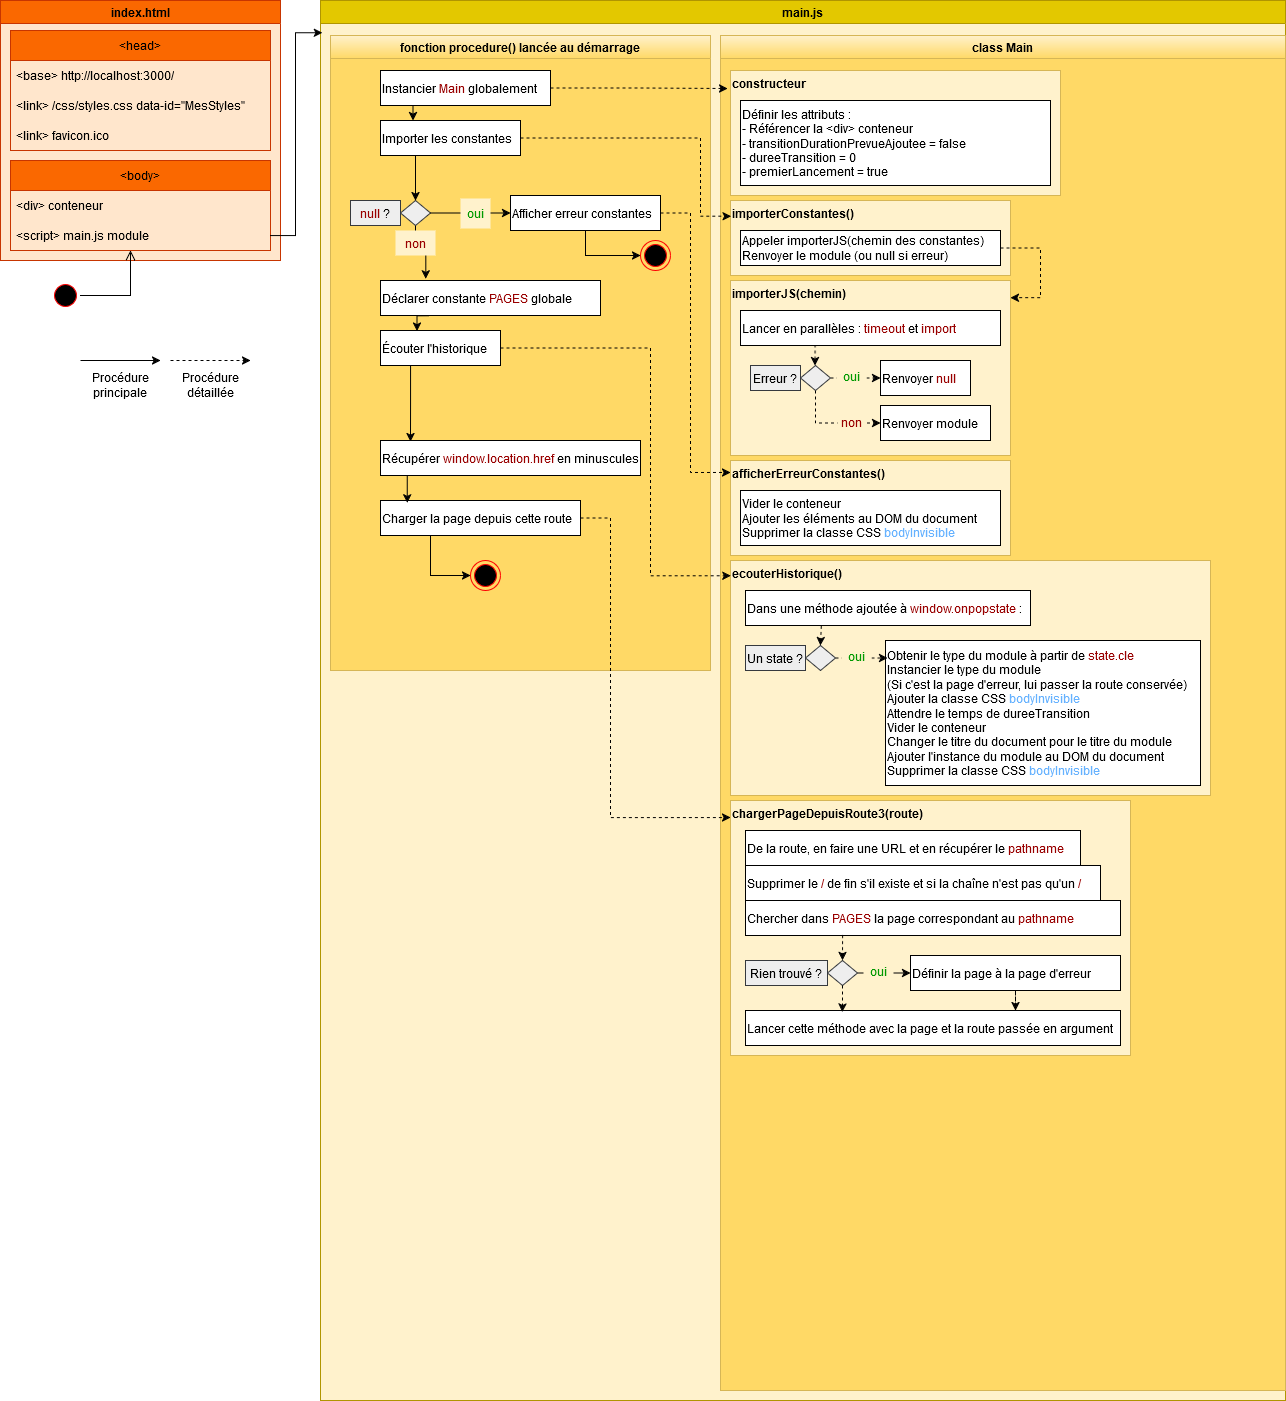
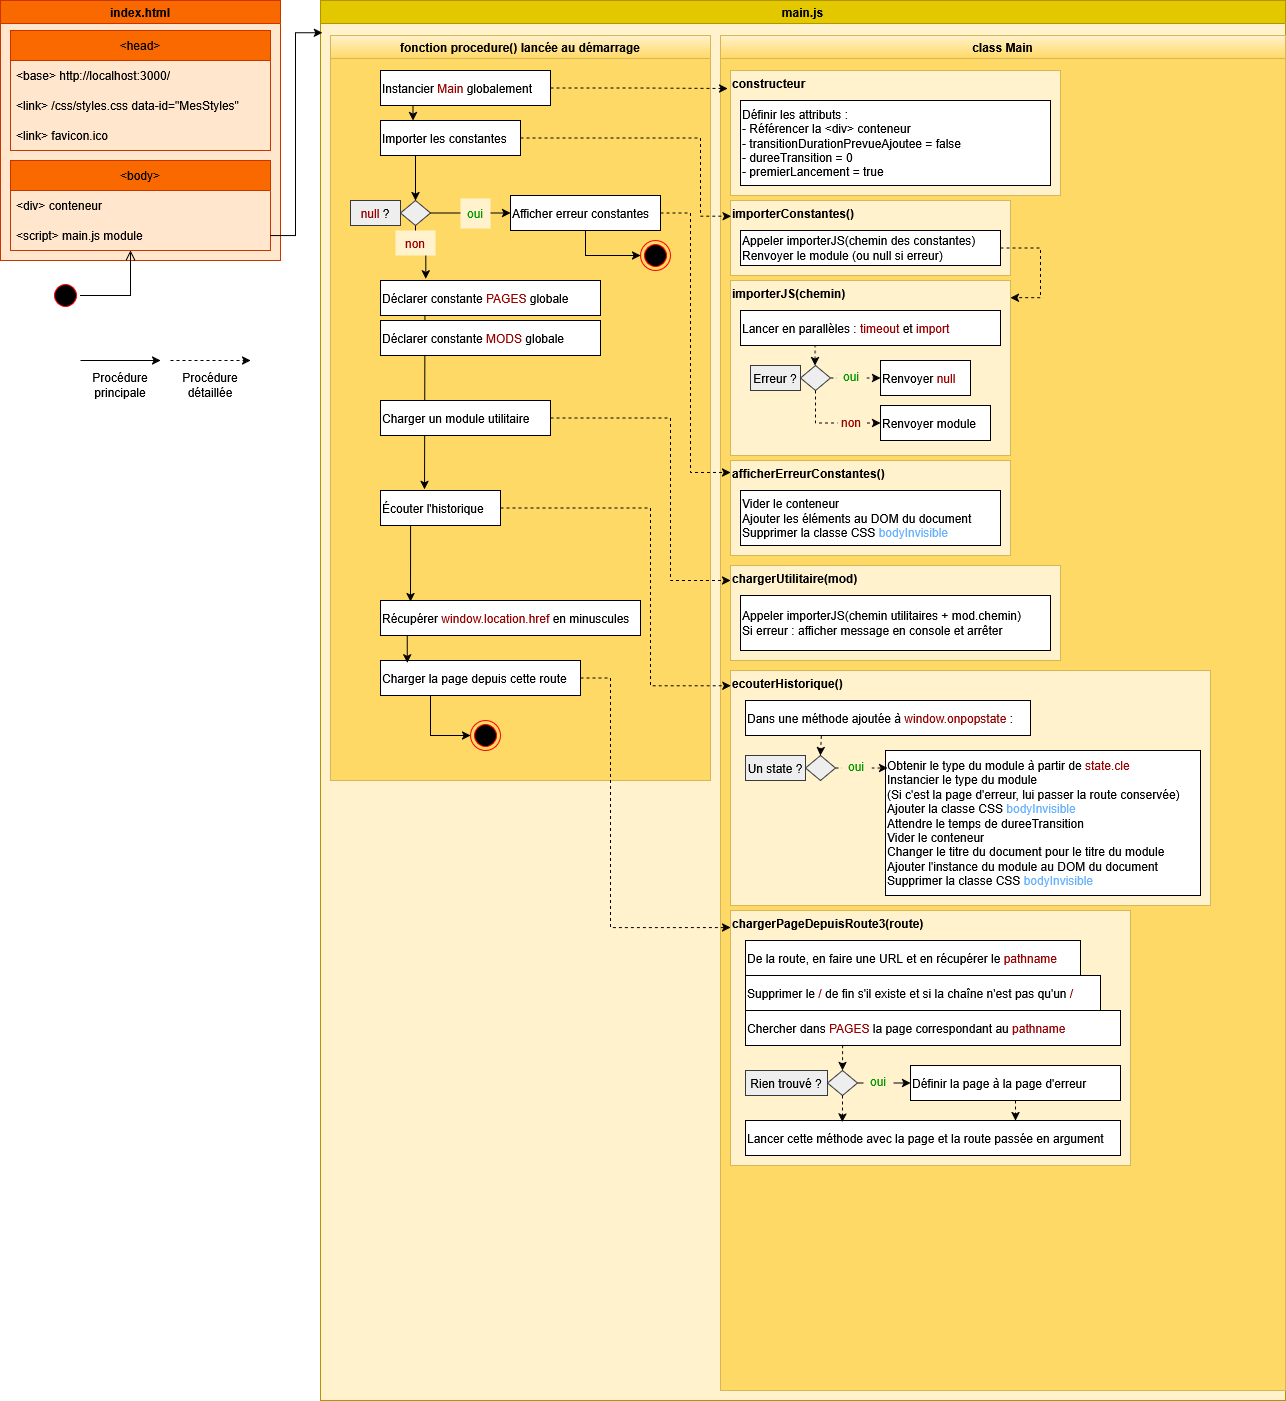
Modules utilitaires

diff --git a/www/js/main.js b/www/js/main.js
@@ -14,6 +14,8 @@ class Main
 		this.cheminFichiersPages = '/js/pages';
 		this.cheminConstantes = '/js/constantes.js';
 		
+		this.cheminFichiersUtilitaires = '/js/utilitaires';
+		
 		this.tracer('Instance générée');
 	}
 	
@@ -90,6 +92,23 @@ class Main
 	{
 		const module = await this.importerJS(this.cheminConstantes);
 		return module;
+	}
+	
+	chargerUtilitaire = async (reference) =>
+	{
+		const module = await main.importerJS(main.cheminFichiersUtilitaires + reference.chemin);
+		
+		if(!module) 
+		{
+			this.tracer(`%cchargerUtilitaire() : Echec du chargement d'utilitaire : `, 'color:DarkGreen', reference.chemin);
+			return;
+		}
+		
+		const moduleExistant = customElements.get(reference.nom);
+		if(!moduleExistant)
+		{
+			customElements.define(reference.nom, module.default);
+		}
 	}
 	
 	chargerPage3 = async (page, routeDemandee) =>
@@ -332,6 +351,11 @@ let procedure = async () =>
 		return;
 	}
 	window.PAGES = constantes.PAGES; // objet global aussi
+	window.MODS = constantes.MODS; // idem
+	
+	// Chargeons ce module utilitaire très important.
+	await main.chargerUtilitaire(MODS.truc);
+	// Il n'est pas utilisé tout de suite... Suspense !
 	
 	main.ecouterHistorique();
 	

diff --git a/www/js/utilitaires/truc.js b/www/js/utilitaires/truc.js
@@ -1,0 +1,46 @@
+class Truc extends HTMLElement
+{
+	constructor()
+	{
+		super(); // Toujours appeler le constructeur parent
+		
+		this.creerElement();
+	}
+	
+	creerElement = () =>
+	{
+		// Création de la racine du shadow DOM
+		// 'open' : composant modifiable après ajout
+		// 'closed' : composant non modifiable 
+		const shadow = this.attachShadow({mode: 'closed'});
+		
+		const template = document.createElement('template');
+		template.innerHTML = `
+		<link rel="stylesheet" href="/css/truc.css">
+		<div class="truc">😎</div>
+		`;
+		shadow.appendChild(template.content.cloneNode(true));
+	}
+	
+	connectedCallback()
+	{
+		console.log(`[${this.constructor.name}] Elément connecté au DOM du document.`);
+	}
+	
+	disconnectedCallback()
+	{
+		console.log(`[${this.constructor.name}] Elément déconnecté du DOM du document.`);
+	}
+	
+	adoptedCallback()
+	{
+		console.log(`[${this.constructor.name}] Elément déplacé vers un document.`);
+	}
+	
+	attributeChangedCallback()
+	{
+		console.log(`[${this.constructor.name}] Un attribut a été ajouté, supprimé ou modifié.`);
+	}
+}
+
+export default Truc;

diff --git a/www/js/pages/rubrique.js b/www/js/pages/rubrique.js
@@ -139,9 +139,13 @@ class Rubrique extends HTMLElement
 		// Noter qu'on peut faire la même chose avec le document HTML lui-même, en particulier si on n'utilise pas de shadowDOM :
 		// document.adoptedStyleSheets = [...document.adoptedStyleSheets, newSheet];
 		
+		// Et on veut un truc !
+		const truc = document.createElement(MODS.truc.nom);
+		
 		// Ajouter les éléments au Shadow DOM
 		shadow.appendChild(h1);
-		shadow.appendChild(bouton);		
+		shadow.appendChild(bouton);
+		shadow.appendChild(truc);
 	}
 	
 	connectedCallback()

diff --git a/serveur/index.js b/serveur/index.js
@@ -4,7 +4,7 @@ const path = require('path');
 const url = require('url');
 const process = require('process');
 
-// Ajouter mes variagles d'environnement à celles éventuellement déjà déclarées.
+// Ajouter mes variables d'environnement à celles éventuellement déjà déclarées.
 // En effet, l'hébergeur peut utiliser process.env pour stocker des infos du serveur.
 const env = require('./env');
 env.chargerENVLocal();

diff --git a/www/js/pages/rubrique/sousRubrique.js b/www/js/pages/rubrique/sousRubrique.js
@@ -62,10 +62,13 @@ class SousRubrique extends HTMLElement
 				<li><a href="/ressources/exemple.pdf" target="_blank" title="Consulter le fichier">PDF</a></li>
 			</ul>
 		</div>
+		
 		<script>
 			console.log('Le script dans un template ne s\'exécute pas.');
 			alert('toto');
 		</script>
+		
+		<mod-truc></mod-truc>
 		`;
 		shadow.appendChild(template.content.cloneNode(true));
 		

diff --git a/www/css/truc.css b/www/css/truc.css
@@ -1,0 +1,10 @@
+.truc
+{
+	background-color: rgb(255,255,255, 0.5);
+	position: fixed;
+	transform: rotate(45deg);
+	padding: 2rem 10rem;
+	top:-1rem;
+	right:-9rem;
+	font-size: 2rem;
+}

diff --git a/www/js/constantes.js b/www/js/constantes.js
@@ -41,3 +41,12 @@ export const PAGES =
 		route: '/analyse-url',
 	},
 };
+
+export const MODS = 
+{
+	truc:
+	{
+		nom: 'mod-truc',
+		chemin: '/truc.js',
+	},
+};

diff --git a/README.md b/README.md
@@ -414,6 +414,39 @@ La page d'erreur est particulière : son constructeur ne fait qu'appeler le cons
 
 Pourquoi cette différence ? C'est le moyen le plus simple pour passer au composant de la page d'erreur **la route qui a levé une erreur**. 
 
+## Constantes UTILS
+
+Sur le même modèle que `PAGES`, le fichier des constantes contient une entrée `MODS` référençant des modules utilitaires qui sont destinés à être ajoutés au *shadow DOM* des modules de page. Ces modules doivent tous avoir un `export default` et hériter de `HTMLElement`.
+
+```JS
+export const MODS = 
+{
+	truc:
+	{
+		nom: 'mod-truc',
+		chemin: '/truc.js',
+	},
+};
+```
+
+Exemple de chargement :
+
+```JS
+await main.chargerUtilitaire(MODS.truc);
+```
+
+Les deux syntaxes HTML ou JS Element sont possibles.
+
+```HTML
+<mod-truc></mod-truc>
+```
+
+```JS
+const shadow = this.attachShadow({mode: 'closed'}); // ou open
+const truc = document.createElement(MODS.truc.nom);
+shadow.appendChild(truc);
+```
+
 ## Premier lancement côté client
 
 Ce diagramme d'activité résume le lancement du site côté *front-end*.
